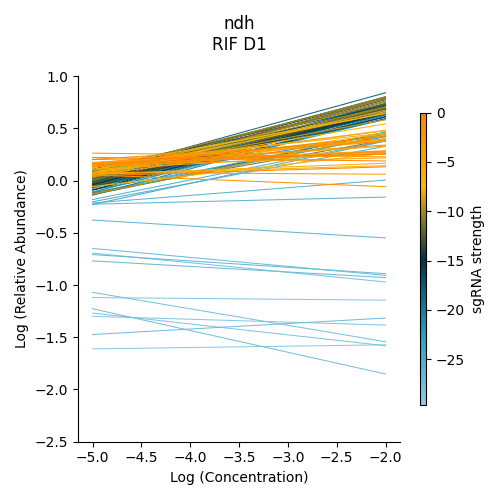
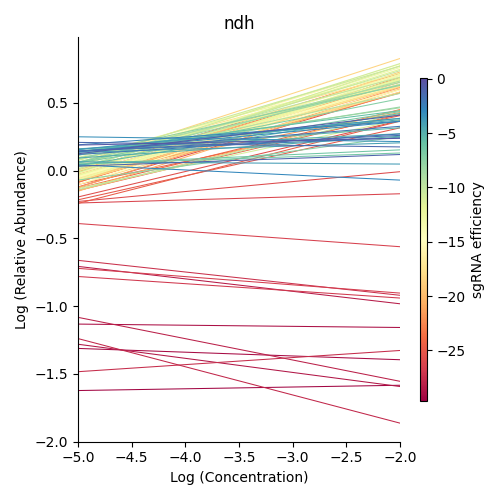
efficiency labels

diff --git a/src/pytransit/analysis/CGI.py b/src/pytransit/analysis/CGI.py
@@ -100,7 +100,7 @@ class CGI_Method(base.SingleConditionMethod):
         return """usage (6 sub-commands):
     python3 ../src/transit.py CGI extract_counts <fastq file> <ids file> > <counts file>
     python3 ../src/transit.py CGI create_combined_counts <comma seperated headers> <counts file 1> <counts file 2> ... <counts file n> > <combined counts file>
-    python3 ../src/transit.py CGI extract_abund <combined counts file> <metadata file> <control condition> <sgRNA strength file> <uninduced ATC file> <drug> <days>  >  <fractional abundundance file>
+    python3 ../src/transit.py CGI extract_abund <combined counts file> <metadata file> <control condition> <sgRNA efficiency file> <uninduced ATC file> <drug> <days>  >  <fractional abundundance file>
     python3 ../src/transit.py CGI run_model <fractional abundundance file>  >  <CRISPRi DR results file>
     python3 ../src/transit.py CGI visualize <fractional abundance> <gene> <output figure location>
     note: redirect output from stdout to output files as shown above"""
@@ -147,11 +147,11 @@ class CGI_Method(base.SingleConditionMethod):
             combined_counts_file = args[0]
             metadata_file = args[1]
             control_condition=args[2]
-            sgRNA_strength_file = args[3]
+            sgRNA_efficiency_file = args[3]
             no_dep_abund = args[4]
             drug = args[5]
             days = args[6]
-            self.extract_abund(combined_counts_file,metadata_file,control_condition,sgRNA_strength_file,no_dep_abund,drug,days)
+            self.extract_abund(combined_counts_file,metadata_file,control_condition,sgRNA_efficiency_file,no_dep_abund,drug,days)
         elif cmd == "run_model":
             if len(args)<1: 
                 print("You have provided incorrect number of args")
@@ -240,7 +240,7 @@ class CGI_Method(base.SingleConditionMethod):
         print(combined_df_text)
 
 
-    def extract_abund(self,combined_counts_file,metadata_file,control_condition,sgRNA_strength_file,no_dep_abund,drug,days,PC=1e-8):  
+    def extract_abund(self,combined_counts_file,metadata_file,control_condition,sgRNA_efficiency_file,no_dep_abund,drug,days,PC=1e-8):  
         import pandas as pd
         
         metadata = pd.read_csv(metadata_file, sep="\t")
@@ -272,12 +272,12 @@ class CGI_Method(base.SingleConditionMethod):
         elif(len(combined_counts_df.columns)<len(metadata)):
             sys.stderr.write("WARNING: Not all of the samples from the metadata based on this criteron have a column in the combined counts file")
       
-        sgRNA_strength = pd.read_csv(sgRNA_strength_file,sep="\t", index_col=0)
-        sgRNA_strength = sgRNA_strength.iloc[:,-1:]
-        sgRNA_strength.columns = ["sgRNA strength"]
-        sgRNA_strength["sgRNA"] = sgRNA_strength.index
-        sgRNA_strength["sgRNA"]=sgRNA_strength["sgRNA"].str.split("_v", expand=True)[0]
-        sgRNA_strength.set_index("sgRNA",inplace=True)
+        sgRNA_efficiency = pd.read_csv(sgRNA_efficiency_file,sep="\t", index_col=0)
+        sgRNA_efficiency = sgRNA_efficiency.iloc[:,-1:]
+        sgRNA_efficiency.columns = ["sgRNA efficiency"]
+        sgRNA_efficiency["sgRNA"] = sgRNA_efficiency.index
+        sgRNA_efficiency["sgRNA"]=sgRNA_efficiency["sgRNA"].str.split("_v", expand=True)[0]
+        sgRNA_efficiency.set_index("sgRNA",inplace=True)
 
         no_dep_df = pd.read_csv(no_dep_abund, sep="\t", index_col=0, header=None)
         no_dep_df = no_dep_df.iloc[:,-1:]
@@ -287,12 +287,12 @@ class CGI_Method(base.SingleConditionMethod):
         no_dep_df["sgRNA"]=no_dep_df["sgRNA"].str.split("_v", expand=True)[0]
         no_dep_df.set_index("sgRNA",inplace=True)
 
-        abund_df = pd.concat([sgRNA_strength, no_dep_df,combined_counts_df], axis=1)
+        abund_df = pd.concat([sgRNA_efficiency, no_dep_df,combined_counts_df], axis=1)
         abund_df= abund_df[~(abund_df.index.str.contains("Negative") | abund_df.index.str.contains("Empty"))]
         sys.stderr.write("Disregarding Empty or Negative sgRNAs\n")
-        sys.stderr.write("%d sgRNAs are all of the following files : sgRNA strength metadata, uninduced ATC counts file, combined counts file\n"%len(abund_df))
+        sys.stderr.write("%d sgRNAs are all of the following files : sgRNA efficiency metadata, uninduced ATC counts file, combined counts file\n"%len(abund_df))
 
-        headers = ["sgRNA strength","uninduced ATC values"]
+        headers = ["sgRNA efficiency","uninduced ATC values"]
         for i,col in enumerate(column_names):
             abund_df[col] = abund_df[col]/abund_df[col].sum()
             abund_df[col] = (abund_df[col]+PC)/(abund_df["uninduced ATC values"]+PC)
@@ -306,7 +306,7 @@ class CGI_Method(base.SingleConditionMethod):
         abund_df = abund_df.drop(columns=["orf-gene","remaining"])
         abund_df = abund_df.dropna()
         
-        abund_df.insert(0, "sgRNA strength", abund_df.pop("sgRNA strength"))
+        abund_df.insert(0, "sgRNA efficiency", abund_df.pop("sgRNA efficiency"))
         abund_df.insert(0, "uninduced ATC values", abund_df.pop("uninduced ATC values"))
         abund_df.insert(0, 'gene', abund_df.pop('gene'))
         abund_df.insert(0, 'orf', abund_df.pop('orf'))
@@ -337,7 +337,7 @@ class CGI_Method(base.SingleConditionMethod):
             orf = gene_df["orf"].iloc[0]
             gene_df = gene_df.drop(columns=["orf","gene","uninduced ATC values"])
 
-            melted_df = gene_df.melt(id_vars=["sgRNA","sgRNA strength"],var_name="conc",value_name="abund")
+            melted_df = gene_df.melt(id_vars=["sgRNA","sgRNA efficiency"],var_name="conc",value_name="abund")
             melted_df["conc"] = melted_df["conc"].str.split("_", expand=True)[0].astype(float)
             min_conc = min(melted_df[melted_df["conc"]>0]["conc"])
             melted_df.loc[melted_df["conc"]==0,"conc"] = min_conc/2
@@ -361,12 +361,12 @@ class CGI_Method(base.SingleConditionMethod):
             drug_output.append([orf,gene,len(gene_df)]+coeffs.values.tolist()+pvals.values.tolist())
             sys.stderr.flush()
 
-        drug_out_df = pd.DataFrame(drug_output, columns=["Orf","Gene","Nobs", "intercept","coefficient sgRNA_strength","coefficient concentration dependence","pval intercept","pval sgRNA_strength","pval concentration dependence"])
+        drug_out_df = pd.DataFrame(drug_output, columns=["Orf","Gene","Nobs", "intercept","coefficient sgRNA_efficiency","coefficient concentration dependence","pval intercept","pval sgRNA_efficiency","pval concentration dependence"])
         drug_out_df["intercept"] = round(drug_out_df["intercept"],6)
-        drug_out_df["coefficient sgRNA_strength"] = round(drug_out_df["coefficient sgRNA_strength"],6)
+        drug_out_df["coefficient sgRNA_efficiency"] = round(drug_out_df["coefficient sgRNA_efficiency"],6)
         drug_out_df["coefficient concentration dependence"] = round(drug_out_df["coefficient concentration dependence"],6)
         drug_out_df["pval intercept"] = round(drug_out_df["pval intercept"],6)
-        drug_out_df["pval sgRNA_strength"] = round(drug_out_df["pval sgRNA_strength"],6)
+        drug_out_df["pval sgRNA_efficiency"] = round(drug_out_df["pval sgRNA_efficiency"],6)
         drug_out_df["pval concentration dependence"] = round(drug_out_df["pval concentration dependence"],6)
 
 
@@ -436,7 +436,7 @@ class CGI_Method(base.SingleConditionMethod):
             X_in = sm.add_constant(X, has_constant='add')
             results = sm.OLS(Y,X_in).fit()
             all_slopes.append(results.params[1])
-            data["sgRNA strength"] = [row["sgRNA strength"]] * len(data)
+            data["sgRNA efficiency"] = [row["sgRNA efficiency"]] * len(data)
             data["slope"] = [results.params[1]] * len(data)
             df_list.append(data)
 
@@ -446,10 +446,10 @@ class CGI_Method(base.SingleConditionMethod):
         cmap =  mpl.colors.LinearSegmentedColormap.from_list("", ["#8ecae6","#219ebc","#023047","#ffb703","#fb8500"], N=len(abund_df))
         palette = [mpl.colors.rgb2hex(cmap(i)) for i in range(cmap.N)]
         #print("-----------", bo_palette.as_hex())
-        g = sns.lmplot(data=plot_df, x='Log (Concentration)', y='Log (Relative Abundance)', hue="sgRNA strength", palette=palette, legend=False,ci=None, scatter=False, line_kws={"lw":0.75})
+        g = sns.lmplot(data=plot_df, x='Log (Concentration)', y='Log (Relative Abundance)', hue="sgRNA efficiency", palette=palette, legend=False,ci=None, scatter=False, line_kws={"lw":0.75})
 
-        sm1 = mpl.cm.ScalarMappable(norm=mpl.colors.Normalize(vmin=plot_df['sgRNA strength'].min(), vmax=0, clip=False), cmap=cmap)
-        g.figure.colorbar(sm1, shrink=0.8, aspect=50, label="sgRNA strength")
+        sm1 = mpl.cm.ScalarMappable(norm=mpl.colors.Normalize(vmin=plot_df['sgRNA efficiency'].min(), vmax=0, clip=False), cmap=cmap)
+        g.figure.colorbar(sm1, shrink=0.8, aspect=50, label="sgRNA efficiency")
         g.set(ylim=(-2.5, 1.0))
         plt.gca().set_title(gene+"\n"+condition, wrap=True)
         plt.tight_layout()

diff --git a/src/pytransit/doc/source/CGI.rst b/src/pytransit/doc/source/CGI.rst
@@ -54,7 +54,7 @@ This is a fairly fast process. It takes at most a minute for the combination of 
 
 ::
 
-    > python3 ../src/transit.py CGI extract_abund <combined counts file> <counts metadata file> <control condition> <sgRNA strengths file> <uninduced ATC file> <drug> <days>  >  <fractional abundance file>
+    > python3 ../src/transit.py CGI extract_abund <combined counts file> <counts metadata file> <control condition> <sgRNA efficiencies file> <uninduced ATC file> <drug> <days>  >  <fractional abundance file>
 
 * counts metadata file (USER created):
 
@@ -71,7 +71,7 @@ This is a fairly fast process. It takes at most a minute for the combination of 
 
 * control condition: The condition to to be considered the control for these set of experiments, as specificed in the "drug" column of the metadata file; typically an atc-induced (+ ATC) with 0 drug concentration condition.
 
-* sgRNA strengths file: A file that contains metadata for each sgRNA in the combined counts file, where the first column must be sgRNA id (as seen in the combined counts file) and the last column must be the strength measurement of the sgRNAs (in publication of this method, sgRNA strength is measurement as extrapolated LFCs calculated through a passaging experiment).
+* sgRNA efficiencies file: A file that contains metadata for each sgRNA in the combined counts file, where the first column must be sgRNA id (as seen in the combined counts file) and the last column must be the efficiency measurement of the sgRNAs (in publication of this method, sgRNA efficiency is measurement as extrapolated LFCs calculated through a passaging experiment).
 
 * uninduced ATC file: A two column file of sgRNAs and their counts in uninduced ATC (no ATC) with 0 drug concentration 
 
@@ -100,13 +100,13 @@ The output columns in this file are:
 
 * intercept - the resulting intercept of the overall fitted regression
 
-* coefficient sgRNA_strength - coefficient of the amount sgRNA strength contributes to the decrease in abundance
+* coefficient sgRNA_efficiency - coefficient of the amount sgRNA efficiency contributes to the decrease in abundance
 
 * coefficient concentration dependence - coefficient of the amount concentration contributes to the decrease in abundance
 
 * pval intercept - the wald test based p-value of the intercept
 
-* pval sgRNA_strength - the wald test based p-value of the coefficient sgRNA_strength
+* pval sgRNA_efficiency - the wald test based p-value of the coefficient sgRNA_efficiency
 
 * pval concentration dependence - the wald test based p-value of the coefficient of concentration dependence
 
@@ -133,13 +133,13 @@ This process is fairly quick, taking less than a minute to run. This figure visu
 * fractional abundance file : Fractional abundance file as created in Step 2. 
 
     .. warning::
-        This visualization assumes the columns are in increasing order of concentration, with the first three abundance columns (after the column "sgRNA strength"), as the control. This order depends on the order of columns during the creation of the combined counts file in Step 1.
+        This visualization assumes the columns are in increasing order of concentration, with the first three abundance columns (after the column "sgRNA efficiency"), as the control. This order depends on the order of columns during the creation of the combined counts file in Step 1.
 
 * gene : select a gene to visualize. Use orf or gene name
 * output plot location : The location where to save the generated plot.
 
 .. note::
-    If comparing plots from different genes, note the scale of sgRNA strength shown in the plots.
+    If comparing plots from different genes, note the scale of sgRNA efficiency shown in the plots.
 
 
 Tutorial
@@ -212,7 +212,7 @@ The resulting file will have 13 columns, where the first column is sgRNA ids and
 
     > python3 ../../../transit.py CGI extract_abund RIF_D1_combined_counts.txt samples_metadata.txt DMSO sgRNA_info.txt uninduced_ATC_counts.txt RIF 1  >  RIF_D1_frac_abund.txt
 
-The result of this command should be a file with a set of comments at the top, detailing the libraries used (DMSO and RIF). There should be a total of 17 columns, the last 12 of which are the calculated abundances, the first is the sgRNA ids followed by the orf/gene the sgRNA is targeting, uninduced ATC values, and sgRNA strength. 
+The result of this command should be a file with a set of comments at the top, detailing the libraries used (DMSO and RIF). There should be a total of 17 columns, the last 12 of which are the calculated abundances, the first is the sgRNA ids followed by the orf/gene the sgRNA is targeting, uninduced ATC values, and sgRNA efficiency. 
 
 **Step 3: Run the CRISPRi-DR model**
 ::
@@ -226,11 +226,11 @@ There should be a total of 184 significant gene interactions, where 111 are sign
 
 **Visualize Specific Genes**
 
-Here are a few samples of the interactions visualized at the sgRNA level for this experiment. Note the difference in sgRNA strength scales shown.
+Here are a few samples of the interactions visualized at the sgRNA level for this experiment. Note the difference in sgRNA efficiency scales shown.
 
 *Significantly depleted gene : RVBD3645*
 
-*RVBD3645* is one of the significantly depleted genes in this experiment. In this plot, notice how most of the slopes are negative but the amount of depletion varies, where the more blue slopes (higher sgRNA strength) are steeper than orange sgRNA slopes (lower sgRNA strength)
+*RVBD3645* is one of the significantly depleted genes in this experiment. In this plot, notice how most of the slopes are negative but the amount of depletion varies, where the more blue slopes (higher sgRNA efficiency) are steeper than orange sgRNA slopes (lower sgRNA efficiency)
 
 .. image:: _images/RVBD3645_lmplot.png
   :width: 400
@@ -242,7 +242,7 @@ Here are a few samples of the interactions visualized at the sgRNA level for thi
 
 *Significantly enriched gene : ndh*
 
-*ndh* is one of the signifincantly enriched genes in this experiment. In its plot, notice how sgRNAs of high strength (blue green ones) show a strong upwards trend but those will lower strength (the orange ones) do not. In fact there a few sgRNAs that show almost no change in fractional abundace as concentration increases.
+*ndh* is one of the signifincantly enriched genes in this experiment. In its plot, notice how sgRNAs of high efficiency (blue green ones) show a strong upwards trend but those will lower efficiency (the orange ones) do not. In fact there a few sgRNAs that show almost no change in fractional abundace as concentration increases.
 
 .. image:: _images/ndh_lmplot.png
   :width: 400
